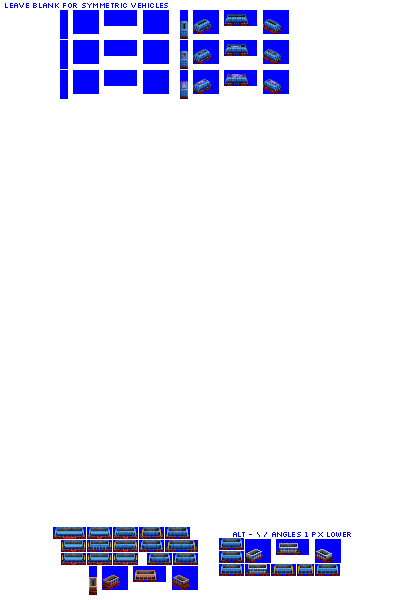
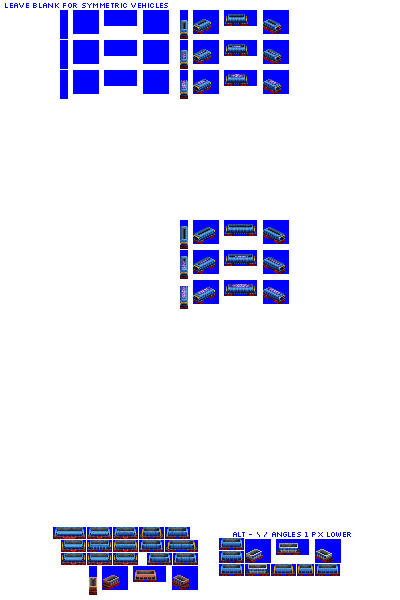
Change: add type 2 and randomised rock hoppers (gen 5 only)

diff --git a/src/train/schemas.py b/src/train/schemas.py
@@ -529,7 +529,9 @@ class SchemaBase(object):
             # for explanation see https://www.tt-forums.net/viewtopic.php?f=26&t=68616&start=460#p1224299
             return 0
         elif self.model_def.cloned_from_model_def is not None:
-            return self.catalogue.clone_quacker.resolve_catalogue(permissive=False).example_model_variant.intro_date_months_offset
+            return self.catalogue.clone_quacker.resolve_catalogue(
+                permissive=False
+            ).example_model_variant.intro_date_months_offset
         elif self._intro_date_months_offset is not None:
             # offset defined in class (probably a wagon)
             return self._intro_date_months_offset
@@ -5756,7 +5758,10 @@ class HopperCarRockType1(HopperCarRockBase):
     """
 
     model_id_root = "rock_hopper_car_type_1"
-    randomised_candidate_groups = ["bulk_cargo_hopper_combos"]
+    randomised_candidate_groups = [
+        "bulk_cargo_hopper_combos",
+        "rock_hopper_car_randomised",
+    ]
 
     def __init__(self, **kwargs):
         super().__init__(**kwargs)
@@ -5769,11 +5774,31 @@ class HopperCarRockType2(HopperCarRockBase):
     """
 
     model_id_root = "rock_hopper_car_type_2"
-    randomised_candidate_groups = ["bulk_cargo_hopper_combos"]
+    randomised_candidate_groups = [
+        "bulk_cargo_hopper_combos",
+        "rock_hopper_car_randomised",
+    ]
 
     def __init__(self, **kwargs):
         super().__init__(**kwargs)
         self._joker = True
+
+
+class HopperCarRockRandomised(RandomisedCarVanillaMixin, HopperCarRockBase):
+    """
+    Random choice of rock hopper car sprite.
+    """
+
+    model_id_root = "rock_hopper_car_randomised"
+
+    def __init__(self, **kwargs):
+        super().__init__(**kwargs)
+        # Graphics configuration
+        self.gestalt_graphics = GestaltGraphicsRandomisedWagon(
+            random_vehicle_map_type="map_loose_mixed_train",
+            dice_colour=1,
+            catalogue_entry=self.catalogue_entry,
+        )
 
 
 class HopperCarSideDoor(HopperCarBase):

diff --git a/src/vehicles/pony/rock_hopper_cars_randomised_pony.py b/src/vehicles/pony/rock_hopper_cars_randomised_pony.py
@@ -7,26 +7,26 @@ def main(**kwargs):
     # --------------- standard gauge ---------------------------------------------------------------
 
     model_def = ModelDef(
-        schema_name="HopperCarRockType2",
-        base_numeric_id=32730,
+        schema_name="HopperCarRockRandomised",
+        base_numeric_id=32880,
         gen=5,
         subtype="B",
         sprites_complete=True,
     )
 
-    model_def.add_unit_def(unit_cls_name="FreightCarUnit", chassis="4_axle_sparse_24px")
+    model_def.add_unit_def(unit_cls_name="FreightCarUnit", chassis="empty_24px")
 
     result.append(model_def)
 
     model_def = ModelDef(
-        schema_name="HopperCarRockType2",
-        base_numeric_id=32840,
+        schema_name="HopperCarRockRandomised",
+        base_numeric_id=32900,
         gen=5,
         subtype="C",
         sprites_complete=True,
     )
 
-    model_def.add_unit_def(unit_cls_name="FreightCarUnit", chassis="4_axle_sparse_32px")
+    model_def.add_unit_def(unit_cls_name="FreightCarUnit", chassis="empty_32px")
 
     result.append(model_def)
 

diff --git a/src/rosters/pony.py b/src/rosters/pony.py
@@ -379,6 +379,7 @@ wagon_module_names_with_roster_ids = {
     "reefer_cars_type_1": "pony",
     "reefer_cars_type_2": "pony",
     "restaurant_cars": "pony",
+    "rock_hopper_cars_randomised": "pony",
     "rock_hopper_cars_type_1": "pony",
     "rock_hopper_cars_type_2": "pony",
     "roller_roof_hopper_cars_randomised": "pony",

diff --git a/src/global_constants.py b/src/global_constants.py
@@ -134,6 +134,7 @@ wagon_module_name_stems = [
     "aggregate_hopper_cars_randomised",
     "rock_hopper_cars_type_1",
     "rock_hopper_cars_type_2",
+    "rock_hopper_cars_randomised",
     "bulk_cargo_hopper_combos",
     "mgr_hopper_cars",
     "mgr_hopper_top_hood_cars",
